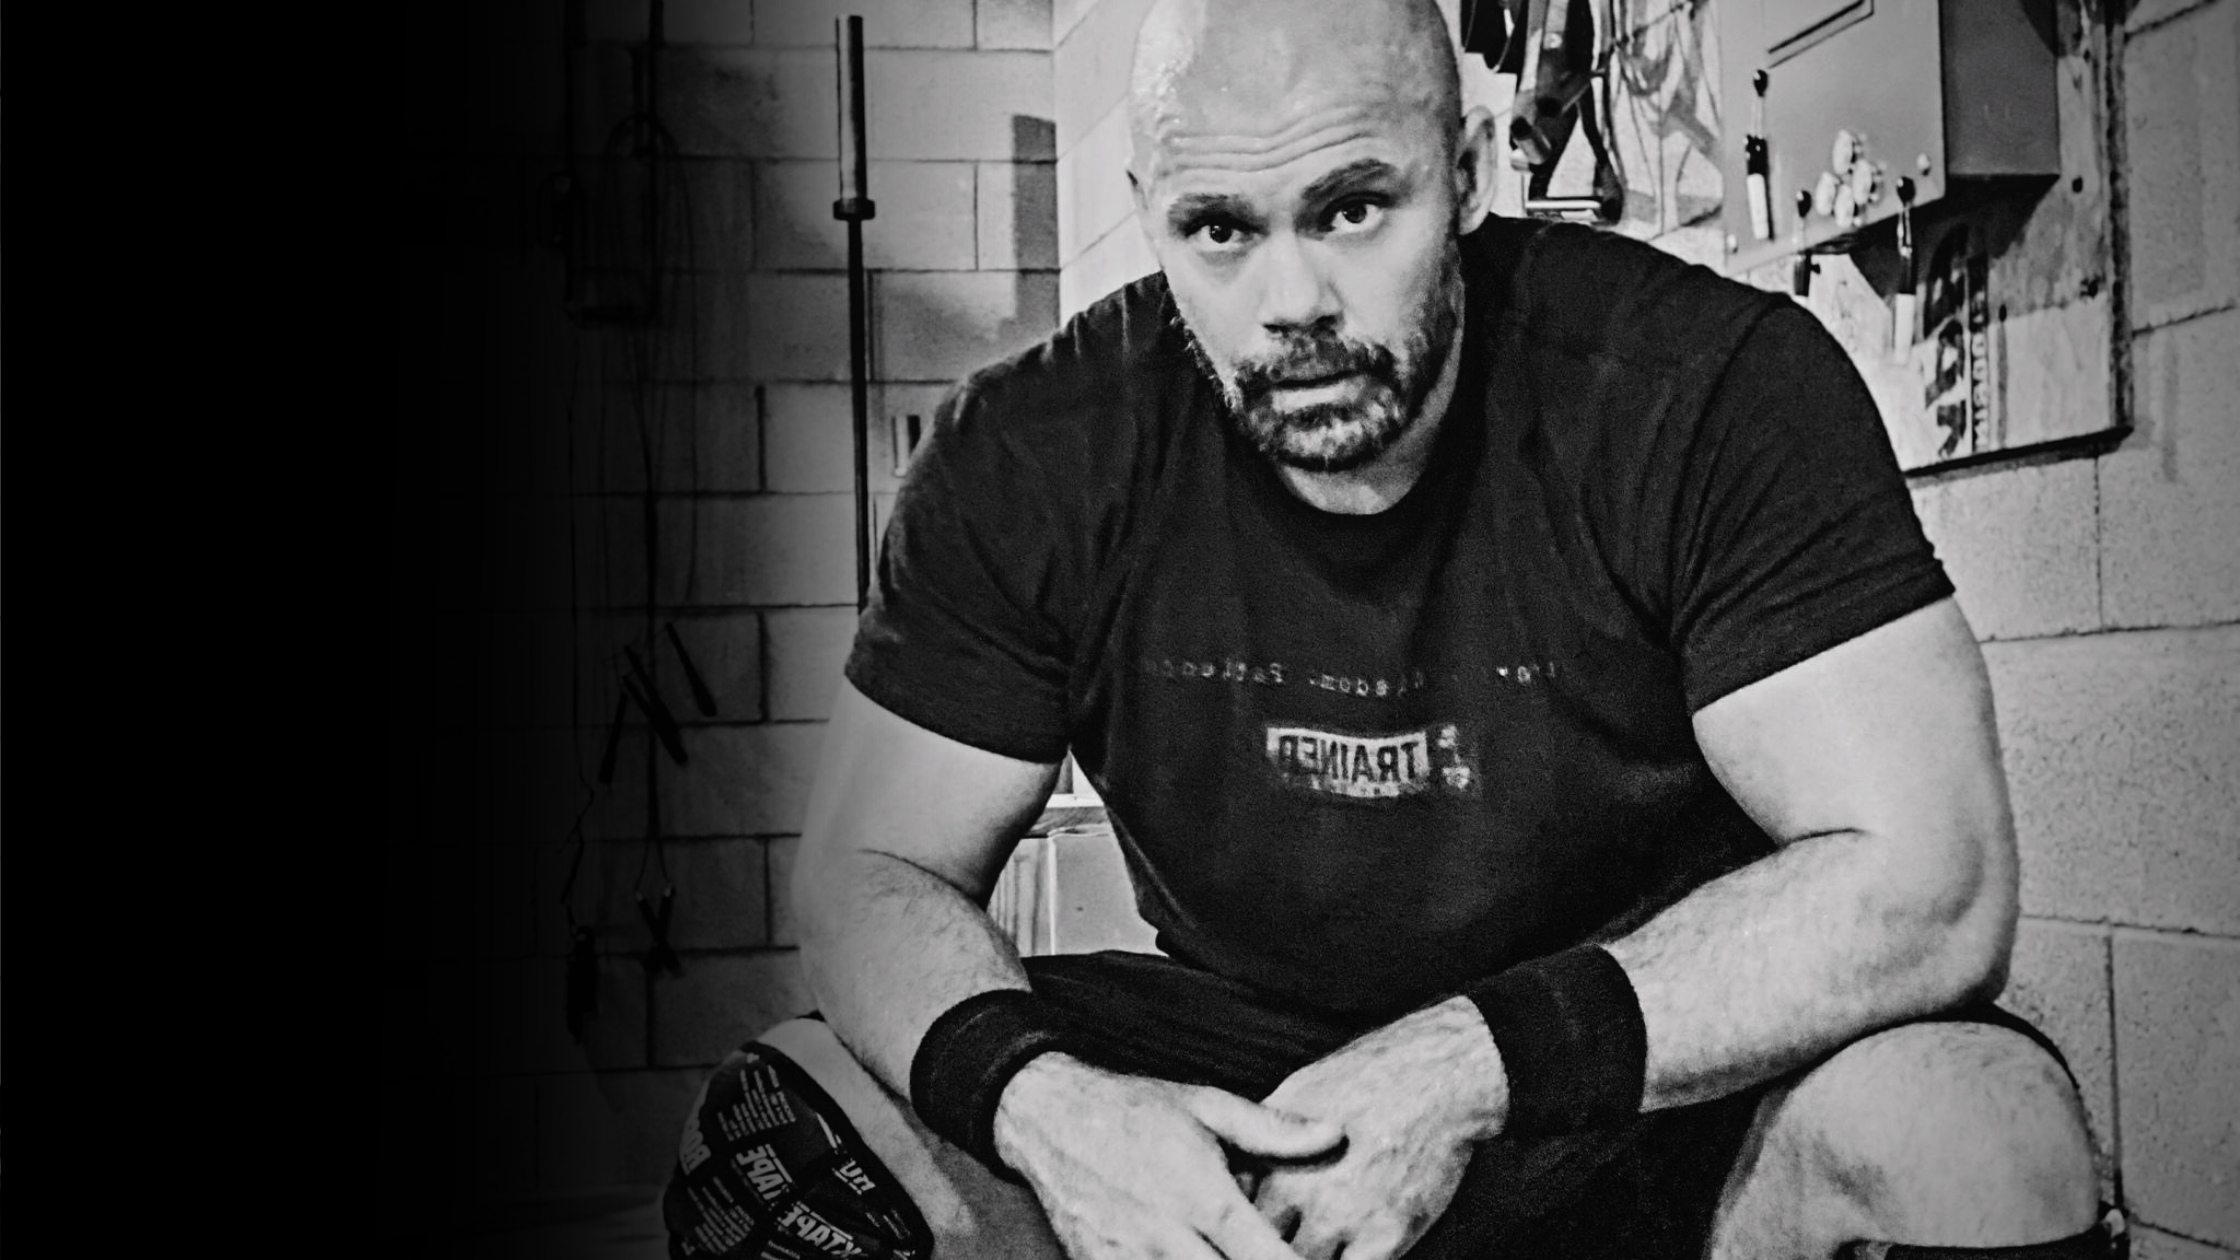
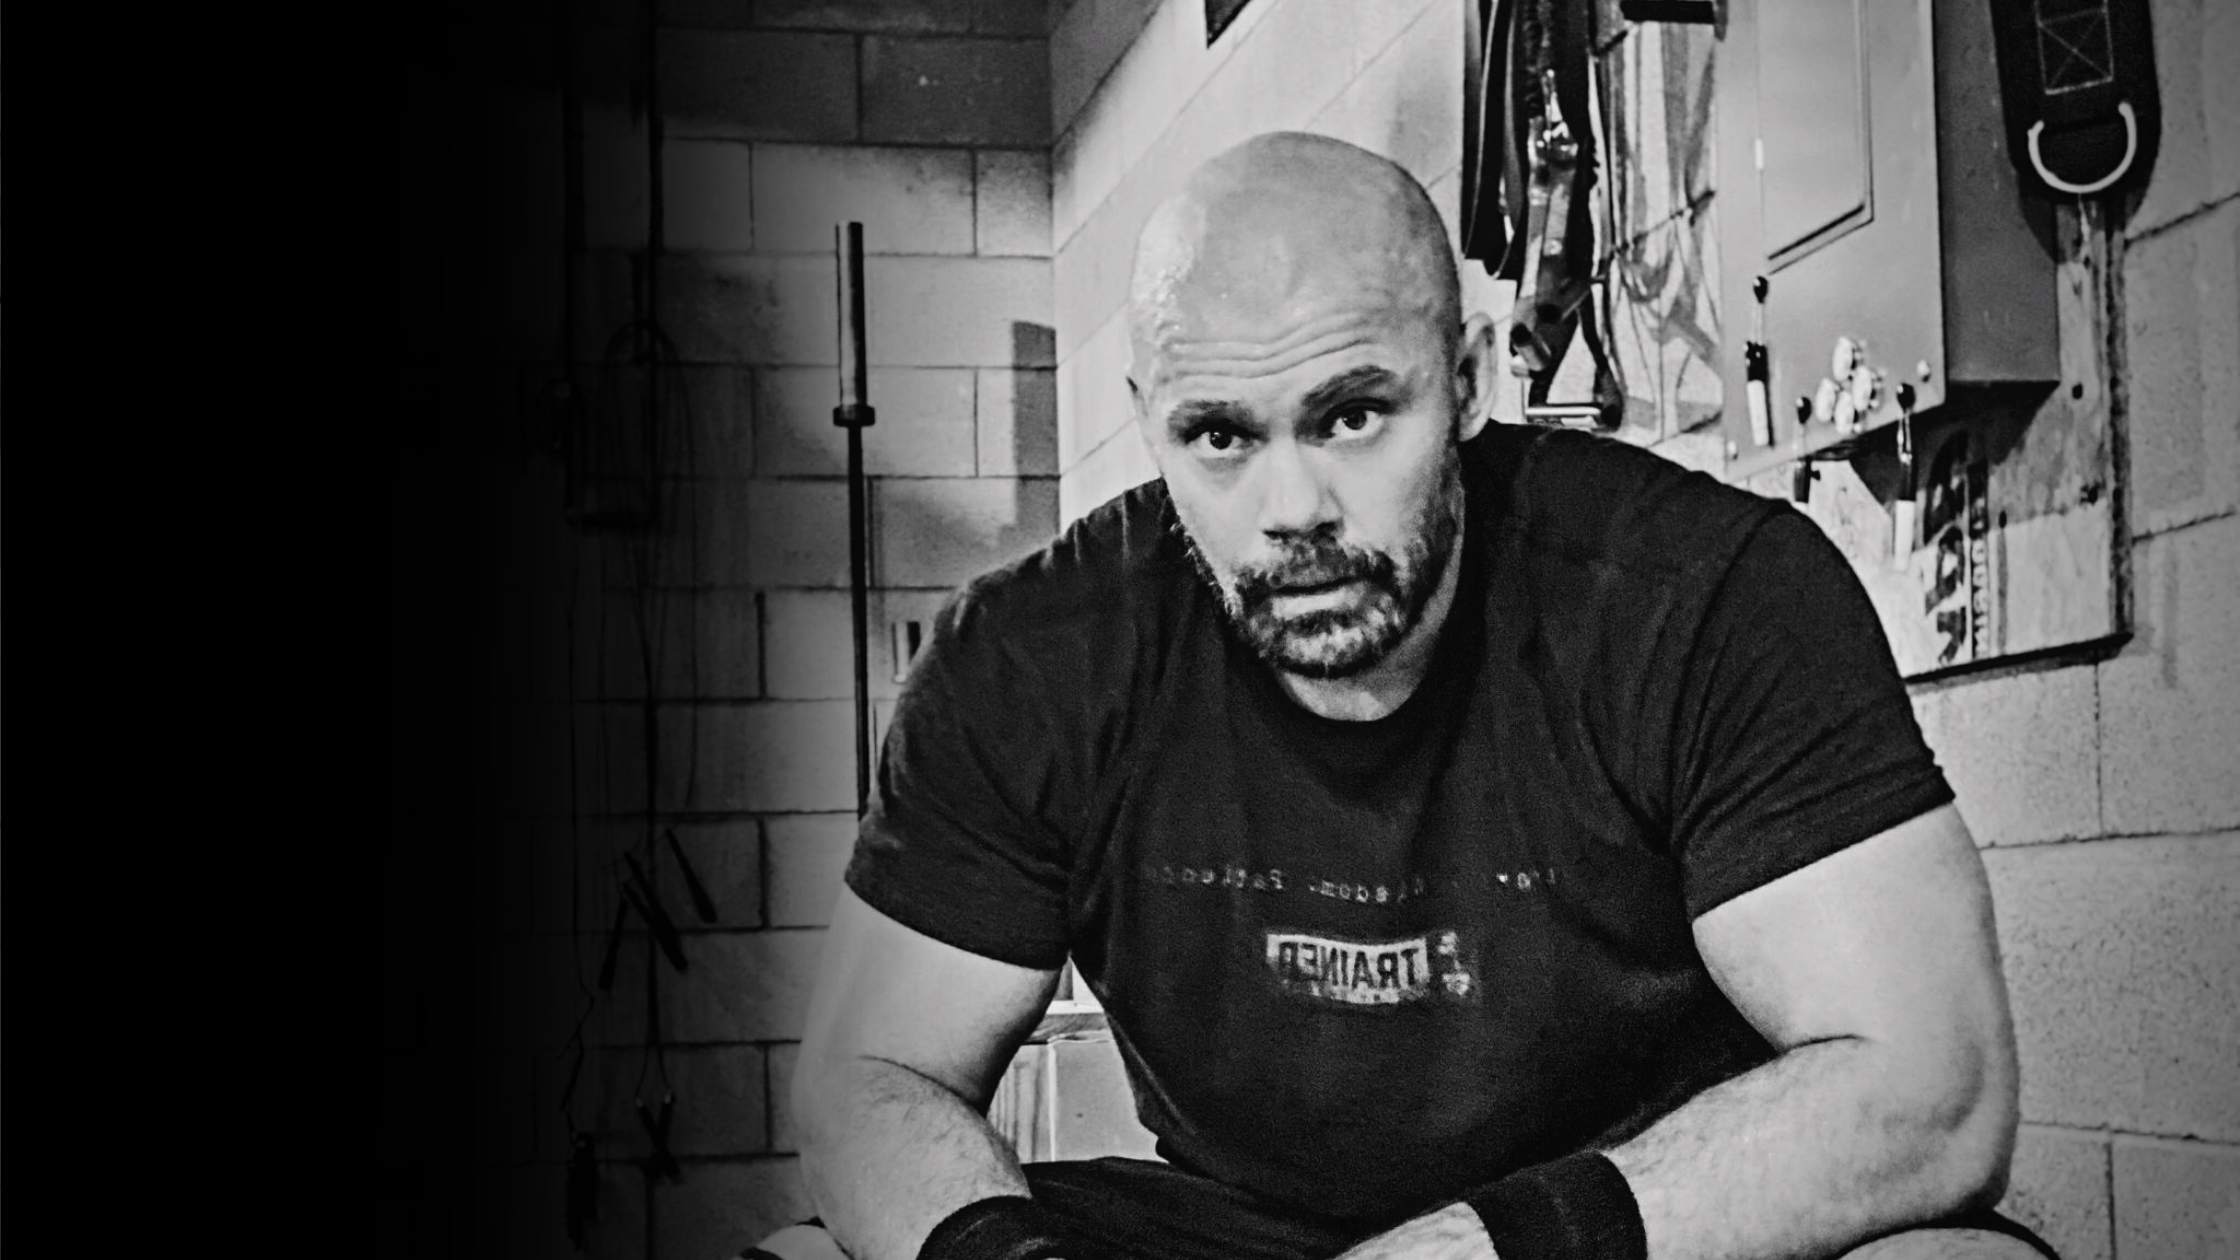
changed photo

diff --git a/index.css b/index.css
@@ -127,7 +127,7 @@ section {
 }
 
 .home .slide {
-  min-height: 80vh;
+  min-height: 70vh;
   background-size: cover !important;
   background-position: center !important;
   padding: 2rem 9%;

diff --git a/index.scss b/index.scss
@@ -137,7 +137,7 @@ section {
 }
 
 .home .slide {
-  min-height: 80vh;
+  min-height: 70vh;
   background-size: cover !important;
   background-position: center !important;
   padding: 2rem 9%;
